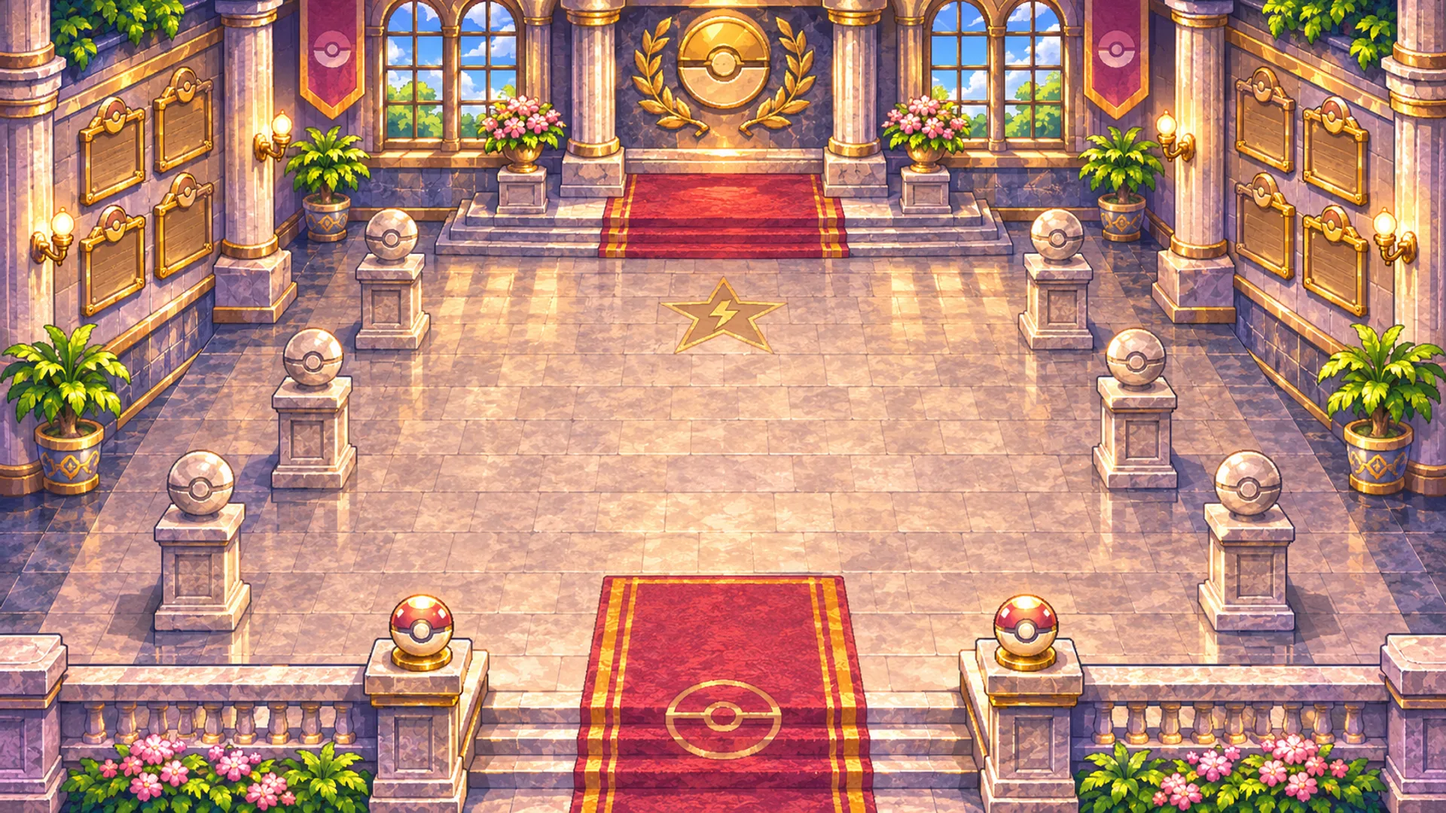
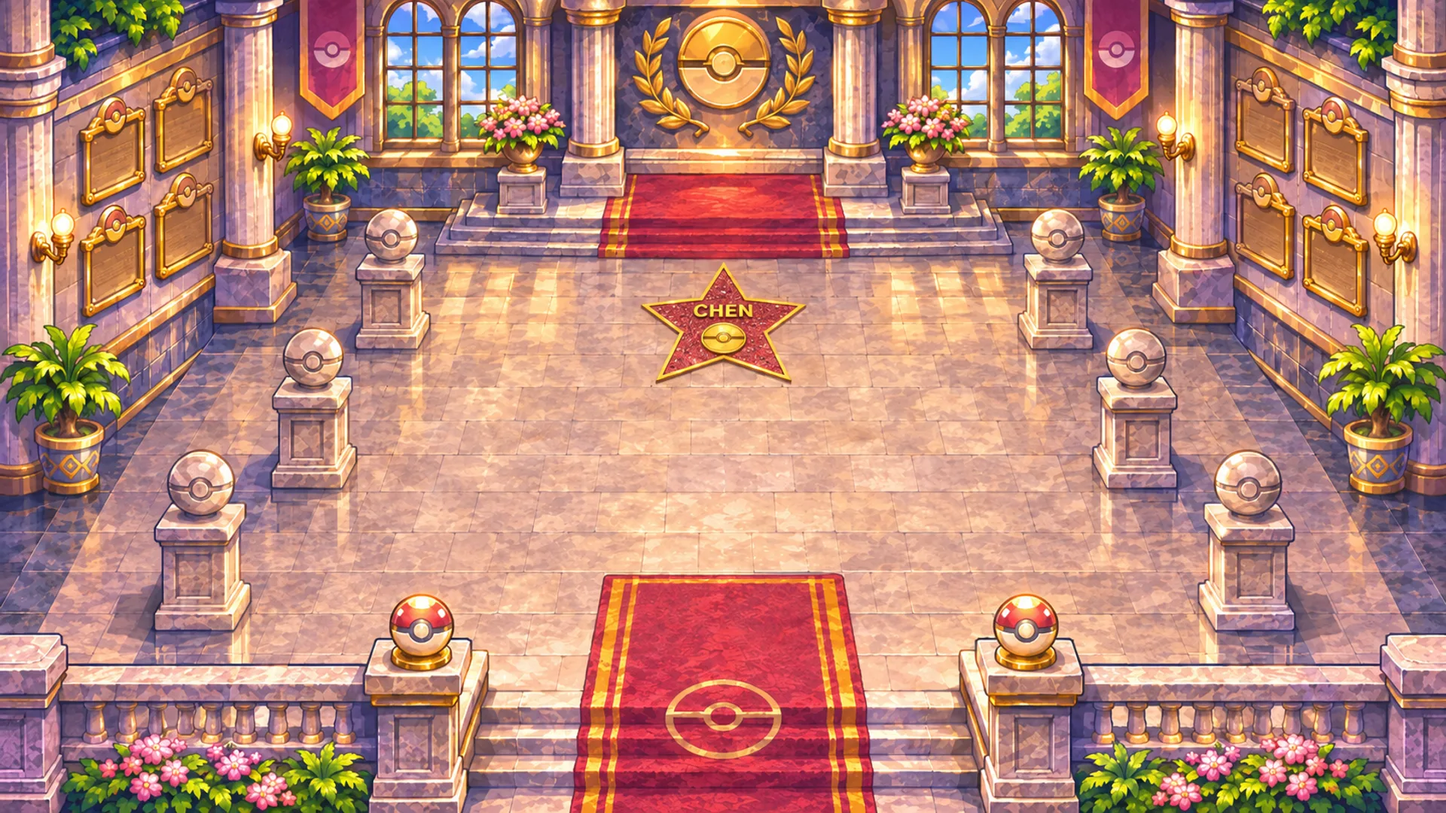
feat(assets): Panthéon avec l'étoile de Chen (Walk of Fame)
Étoile rouge au contour jaune, nom CHEN et Poké Ball dorée au centre. Composition inchangée : les six socles
de data/pantheon-scene.json tombent toujours sur les piédestaux.

diff --git a/docs/projet/decors-a-regenerer.md b/docs/projet/decors-a-regenerer.md
@@ -9,7 +9,7 @@ Décision de Nicolas (09/11) : tous les décors sont refaits dans le style de la
 - À la fin : Bourg Palette, Labo, Panthéon. Fait le 09/11 : zones cliquables replacées (`data/regions/kanto/scenes.json`) et socles du Panthéon recalés (`data/pantheon-scene.json`), tests refaits. Ticket O terminé.
 
 ## Easter eggs changés après les tests (09/11)
-Prompts à jour dans `decors-prompts.md` pour : Pension (œuf de Yoshi bien démarqué), Chez Maman (Super Nintendo + Luxo Jr., plus de lettre), Centre Commercial (Où est Charlie), Panthéon (étoile CHEN du Walk of Fame, correction de l'image existante). Chez Blue (bandeau de Konoha rayé, Sasuke) et Arène de Safrania (Cerebro flottant au-dessus du fauteuil du Professeur X) validés aussi. Jadielle (mallette de Pulp Fiction) validé aussi. Livrés et convertis le 09/11 : Safrania, Jadielle, Pension, Chez Blue, Chez Maman (écran et bouton de la télé recalés dans `scenes.json`), Centre Commercial. Reste : Panthéon (étoile CHEN, ChatGPT a refusé le premier prompt à cause de la photo d'une étoile avec un nom réel). Les images sont à refaire par Nicolas dans ChatGPT puis à repasser par `scripts/preparer-decors.mjs`.
+Prompts à jour dans `decors-prompts.md` pour : Pension (œuf de Yoshi bien démarqué), Chez Maman (Super Nintendo + Luxo Jr., plus de lettre), Centre Commercial (Où est Charlie), Panthéon (étoile CHEN du Walk of Fame, correction de l'image existante). Chez Blue (bandeau de Konoha rayé, Sasuke) et Arène de Safrania (Cerebro flottant au-dessus du fauteuil du Professeur X) validés aussi. Jadielle (mallette de Pulp Fiction) validé aussi. Livrés et convertis le 09/11 : Safrania, Jadielle, Pension, Chez Blue, Chez Maman (écran et bouton de la télé recalés dans `scenes.json`), Centre Commercial. Panthéon livré et converti le 09/11 (étoile rouge « CHEN » au contour jaune et à la Poké Ball dorée ; composition inchangée, socles de `data/pantheon-scene.json` toujours bons ; ChatGPT avait refusé le premier prompt à cause de la photo d'une étoile avec un nom réel). Tous les décors sont à jour. Les images sont à refaire par Nicolas dans ChatGPT puis à repasser par `scripts/preparer-decors.mjs`.
 
 ## Méthode
 1. Coller le prompt du décor dans ChatGPT et joindre la carte seule (pour le rendu). Aucune ancienne image de décor : chaque lieu est décrit d'après les jeux.
